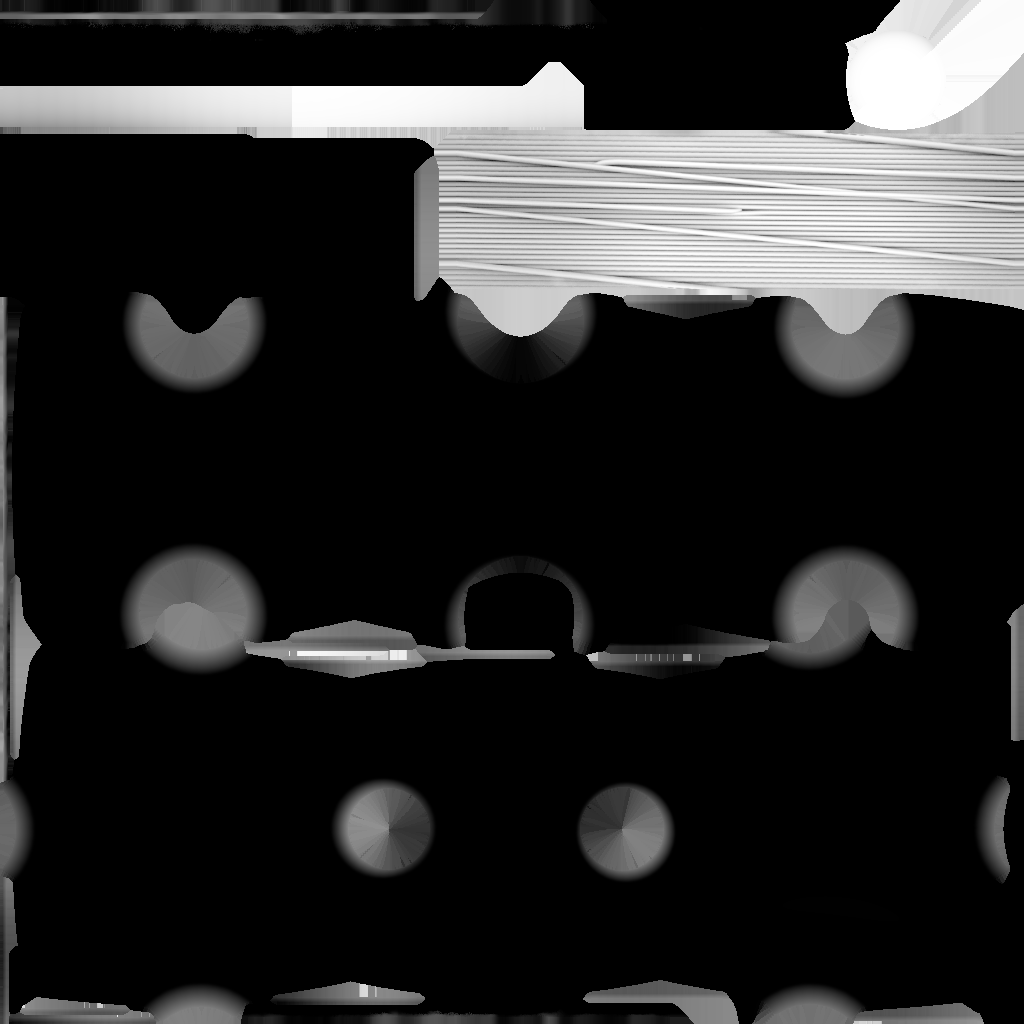
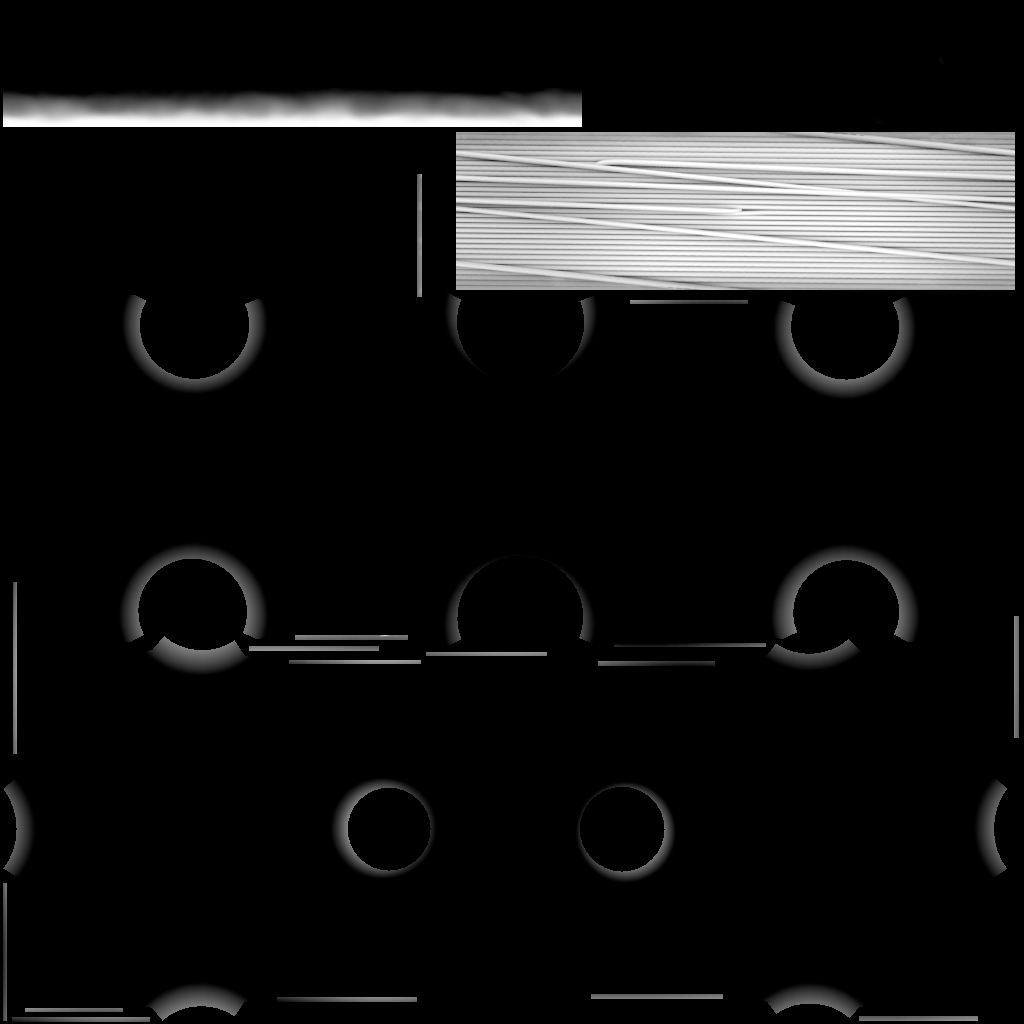
Sync

diff --git a/Code/Player/PlayerInventory.cs b/Code/Player/PlayerInventory.cs
@@ -42,6 +42,28 @@ public sealed class PlayerInventory : Component, Local.IPlayerEvents
 	}
 
 	/// <summary>
+	/// Returns whether the given item could be inserted into the inventory.
+	/// Checks for existing weapons that can receive ammo, and empty slots.
+	/// </summary>
+	public bool CanTake( BaseCarryable item )
+	{
+		if ( !item.IsValid() )
+			return false;
+
+		var existing = Weapons.FirstOrDefault( x => x.GetType() == item.GetType() );
+		if ( existing.IsValid() )
+		{
+			// We already have this weapon — only allow if it can receive ammo
+			if ( existing is BaseWeapon existingWeapon && existingWeapon.UsesAmmo )
+				return existingWeapon.ReserveAmmo < existingWeapon.MaxReserveAmmo;
+
+			return false;
+		}
+
+		return FindEmptySlot() >= 0;
+	}
+
+	/// <summary>
 	/// Returns the first empty slot index, or -1 if the inventory is full.
 	/// </summary>
 	public int FindEmptySlot()
@@ -229,30 +251,27 @@ public sealed class PlayerInventory : Component, Local.IPlayerEvents
 		return true;
 	}
 
-	public void Take( BaseCarryable item, bool includeNotices )
+	public bool Take( BaseCarryable item, bool includeNotices )
 	{
+		if ( !CanTake( item ) )
+			return false;
+
 		var existing = Weapons.FirstOrDefault( x => x.GetType() == item.GetType() );
 		if ( existing.IsValid() )
 		{
 			if ( existing is BaseWeapon existingWeapon && item is BaseWeapon pickupWeapon && existingWeapon.UsesAmmo )
 			{
-				if ( existingWeapon.ReserveAmmo < existingWeapon.MaxReserveAmmo )
-				{
-					var ammoToGive = pickupWeapon.UsesClips ? pickupWeapon.ClipContents : pickupWeapon.StartingAmmo;
-					existingWeapon.AddReserveAmmo( ammoToGive );
-					OnClientPickup( existing, true );
-				}
+				var ammoToGive = pickupWeapon.UsesClips ? pickupWeapon.ClipContents : pickupWeapon.StartingAmmo;
+				existingWeapon.AddReserveAmmo( ammoToGive );
+				OnClientPickup( existing, true );
+				item.DestroyGameObject();
+				return true;
 			}
 
-			item.DestroyGameObject();
-			return;
+			return false;
 		}
 
-		// Reject if the inventory is full
 		var slot = FindEmptySlot();
-		if ( slot < 0 )
-			return;
-
 		item.GameObject.SetParent( GameObject, false );
 		item.LocalTransform = global::Transform.Zero;
 		item.InventorySlot = slot;
@@ -275,10 +294,11 @@ public sealed class PlayerInventory : Component, Local.IPlayerEvents
 		if ( pickupEvent.Cancelled )
 		{
 			item.DestroyGameObject();
-			return;
+			return false;
 		}
 
 		OnClientPickup( item );
+		return true;
 	}
 
 	/// <summary>

diff --git a/Code/Items/DroppedWeapon.cs b/Code/Items/DroppedWeapon.cs
@@ -1,3 +1,5 @@
+using Sandbox.UI;
+
 public sealed class DroppedWeapon : Component, Component.IPressable, PlayerController.IEvents
 {
 	IPressable.Tooltip? IPressable.GetTooltip( IPressable.Event e )
@@ -8,7 +10,22 @@ public sealed class DroppedWeapon : Component, Component.IPressable, PlayerContr
 		var name = weapon.DisplayName.ToUpper();
 
 		if ( HasInput() ) return new IPressable.Tooltip( "Can't pick this up", "block", name );
+		if ( IsInventoryFull() ) return new IPressable.Tooltip( "Inventory Full", "block", name );
 		return new IPressable.Tooltip( "Pick up", "inventory_2", name );
+	}
+
+	private bool IsInventoryFull()
+	{
+		var player = Player.FindLocalPlayer();
+		if ( !player.IsValid() ) return false;
+
+		var inventory = player.GetComponent<PlayerInventory>();
+		if ( !inventory.IsValid() ) return false;
+
+		var weapon = GetComponent<BaseCarryable>();
+		if ( !weapon.IsValid() ) return false;
+
+		return !inventory.CanTake( weapon );
 	}
 
 	private bool HasInput()
@@ -24,6 +41,8 @@ public sealed class DroppedWeapon : Component, Component.IPressable, PlayerContr
 		// Can't pick up weapons that are fireable by a contraption
 		//
 		if ( HasInput() ) return false;
+
+		if ( IsInventoryFull() ) return false;
 
 		return true;
 	}
@@ -56,8 +75,18 @@ public sealed class DroppedWeapon : Component, Component.IPressable, PlayerContr
 		var weapon = GetComponent<BaseCarryable>();
 		if ( !weapon.IsValid() ) return;
 
-		Enabled = false;
+		if ( !inventory.Take( weapon, true ) )
+		{
+			ShowInventoryFull();
+			return;
+		}
 
-		inventory.Take( weapon, true );
+		Enabled = false;
+	}
+
+	[Rpc.Owner]
+	private void ShowInventoryFull()
+	{
+		Notices.AddNotice( "block", Color.Red, "Inventory Full", 2 );
 	}
 }

diff --git a/Code/Weapons/ToolGun/Modes/Emitter/EmitterTool.cs b/Code/Weapons/ToolGun/Modes/Emitter/EmitterTool.cs
@@ -29,6 +29,7 @@ public class EmitterTool : ToolMode
 		base.OnStart();
 
 		RegisterAction( ToolInput.Primary, () => "#tool.hint.emittertool.place", OnPlace );
+		RegisterAction( ToolInput.Secondary, () => "#tool.hint.emittertool.place_no_weld", OnPlaceNoWeld );
 	}
 
 	void OnPlace()
@@ -44,7 +45,24 @@ public class EmitterTool : ToolMode
 		placementTrans.Rotation = pos.Rotation;
 
 		var effectDef = ResourceLibrary.Get<ScriptedEmitter>( EffectDef );
-		Spawn( select, baseDef.Prefab, effectDef, placementTrans );
+		Spawn( select, baseDef.Prefab, effectDef, placementTrans, false );
+		ShootEffects( select );
+	}
+
+	void OnPlaceNoWeld()
+	{
+		var select = TraceSelect();
+		if ( !select.IsValid() ) return;
+
+		var baseDef = ResourceLibrary.Get<ScriptedEmitterModel>( BaseDef );
+		if ( baseDef == null ) return;
+
+		var pos = select.WorldTransform();
+		var placementTrans = new Transform( pos.Position );
+		placementTrans.Rotation = pos.Rotation;
+
+		var effectDef = ResourceLibrary.Get<ScriptedEmitter>( EffectDef );
+		Spawn( select, baseDef.Prefab, effectDef, placementTrans, true );
 		ShootEffects( select );
 	}
 
@@ -66,7 +84,7 @@ public class EmitterTool : ToolMode
 	}
 
 	[Rpc.Host]
-	public void Spawn( SelectionPoint point, PrefabFile emitterPrefab, ScriptedEmitter effect, Transform tx )
+	public void Spawn( SelectionPoint point, PrefabFile emitterPrefab, ScriptedEmitter effect, Transform tx, bool noWeld )
 	{
 		if ( emitterPrefab == null )
 			return;
@@ -82,7 +100,7 @@ public class EmitterTool : ToolMode
 			emitter.Emitter = effect;
 		}
 
-		if ( !point.IsWorld )
+		if ( !noWeld )
 		{
 			var joint = go.AddComponent<FixedJoint>();
 			joint.Attachment = Joint.AttachmentMode.LocalFrames;